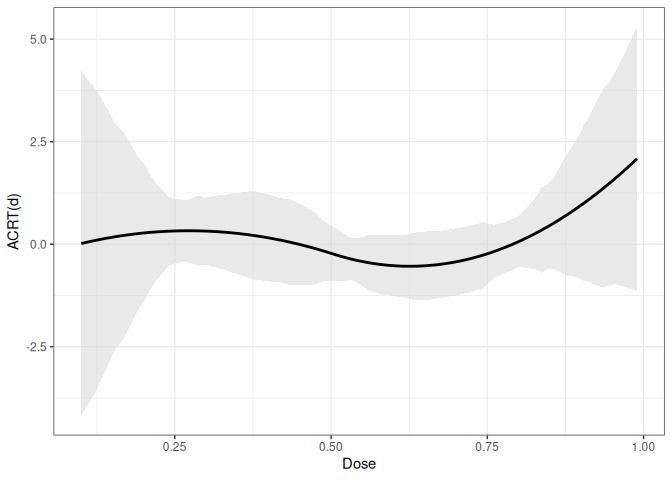
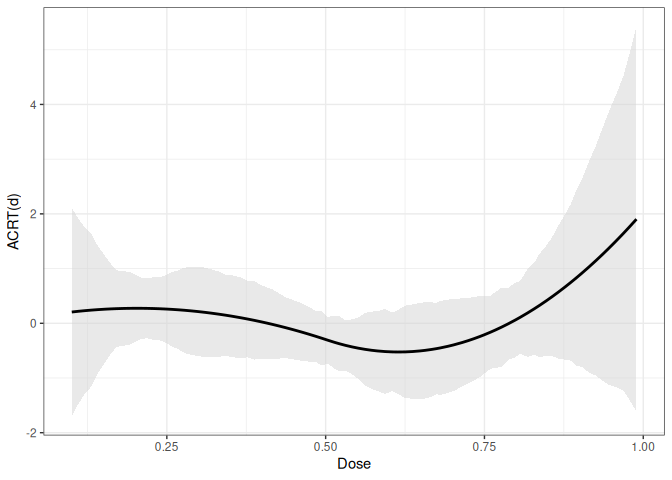
Prepare 0.1.3: require ptetools 1.0.2, fix README rendering, align CI
#18 fixed the spline basis used for ATT(d) and ACRT(d) point estimates.
The matching fix to their standard errors is in ptetools 1.0.2 (#7);
with an older ptetools the standard errors are 2-3x too large near the
ends of the dose range, so require ptetools (>= 1.0.2). Bump to 0.1.3
since 0.1.2 is on CRAN, and update NEWS and citation files.

README.qmd loaded BMisc, ptetools, and contdid from hard-coded
~/Dropbox paths, so it could only render on one machine (this is why
the build check failed on #18). It now attaches contdid and ggplot2.
README.md and its figures are re-rendered with contdid 0.1.3 and
ptetools 1.0.2; standard errors shift from the ptetools fixes, point
estimates in the main examples are unchanged.

All three workflows are now copies of BMisc's. The revdep job had never
run: it installed revdepcheck from CRAN, where it is not available; it
is now installed from GitHub.

diff --git a/README.md b/README.md
@@ -194,12 +194,12 @@ summary(cd_res)
 #> 
 #> Overall ATT:  
 #>      ATT    Std. Error     [ 95%  Conf. Int.] 
-#>  -0.0265        0.0301    -0.0855      0.0325 
+#>  -0.0265        0.0362    -0.0974      0.0445 
 #> 
 #> 
 #> Overall ACRT:  
 #>    ACRT    Std. Error     [ 95%  Conf. Int.]  
-#>  0.1341        0.0485      0.039      0.2293 *
+#>  0.1341        0.0512     0.0338      0.2345 *
 #> ---
 #> Signif. codes: `*' confidence band does not cover 0
 ggcont_did(cd_res, type = "att")
@@ -248,16 +248,16 @@ summary(cd_res_es_level)
 #> 
 #> Overall ATT:  
 #>      ATT    Std. Error     [ 95%  Conf. Int.] 
-#>  -0.0265        0.0333    -0.0918      0.0389 
+#>  -0.0265        0.0268     -0.079      0.0261 
 #> 
 #> 
 #> Dynamic Effects:
 #>  Event Time Estimate Std. Error [95% Simult.  Conf. Band] 
-#>          -2  -0.0297     0.0512       -0.1555      0.0962 
-#>          -1   0.0210     0.0382       -0.0730      0.1149 
-#>           0  -0.0069     0.0372       -0.0984      0.0845 
-#>           1   0.0009     0.0436       -0.1063      0.1080 
-#>           2  -0.0512     0.0502       -0.1746      0.0722 
+#>          -2  -0.0297     0.0471       -0.1428      0.0835 
+#>          -1   0.0210     0.0441       -0.0848      0.1267 
+#>           0  -0.0069     0.0279       -0.0740      0.0601 
+#>           1   0.0009     0.0375       -0.0892      0.0909 
+#>           2  -0.0512     0.0516       -0.1751      0.0727 
 #> ---
 #> Signif. codes: `*' confidence band does not cover 0
 ggcont_did(cd_res_es_level)
@@ -293,16 +293,16 @@ summary(cd_res_es_slope)
 #> 
 #> Overall ACRT:  
 #>     ATT    Std. Error     [ 95%  Conf. Int.]  
-#>  0.1341        0.0584     0.0197      0.2485 *
+#>  0.1341        0.0547     0.0269      0.2414 *
 #> 
 #> 
 #> Dynamic Effects:
 #>  Event Time Estimate Std. Error [95% Simult.  Conf. Band]  
-#>          -2  -0.0701     0.0808       -0.2710      0.1308  
-#>          -1  -0.2212     0.0892       -0.4431      0.0007  
-#>           0   0.1592     0.0586        0.0136      0.3048 *
-#>           1   0.0551     0.0828       -0.1509      0.2610  
-#>           2  -0.5405     0.1154       -0.8275     -0.2535 *
+#>          -2  -0.0701     0.0745       -0.2460      0.1057  
+#>          -1  -0.2212     0.0823       -0.4155     -0.0268 *
+#>           0   0.1592     0.0588        0.0205      0.2979 *
+#>           1   0.0551     0.0764       -0.1252      0.2354  
+#>           2  -0.5405     0.1233       -0.8316     -0.2494 *
 #> ---
 #> Signif. codes: `*' confidence band does not cover 0
 ggcont_did(cd_res_es_slope)
@@ -314,16 +314,16 @@ style="width:100.0%" />
 ### Case 3: Data-Driven Nonparametric Model for Treatment Effects
 
 In most applications, it is hard to know the correct functional form for
-the treatment effects as a function of the dose. In Callaway et al.
-(2025), the approach we emphasize comes from Chen et al. (2025), and the
-`contdid` package uses their [`npiv`
-package](https://github.com/JeffreyRacine/npiv) to implement this
-approach. Code-wise, the only thing to change is to set the argument
-`dose_est_method="cck"`. \[Note that we currently only support this
-option for the case with two periods and no staggered adoption. With
-more periods, you can average the pre- and post-treatment periods to
-reduce it to a two period case and then run the code below; in fact,
-this is what we did in the application in our paper.\]
+the treatment effects as a function of the dose. In Callaway,
+Goodman-Bacon, and Sant’Anna (2025), the approach we emphasize comes
+from Chen, Christensen, and Kankanala (2025), and the `contdid` package
+uses their [`npiv` package](https://github.com/JeffreyRacine/npiv) to
+implement this approach. Code-wise, the only thing to change is to set
+the argument `dose_est_method="cck"`. \[Note that we currently only
+support this option for the case with two periods and no staggered
+adoption. With more periods, you can average the pre- and post-treatment
+periods to reduce it to a two period case and then run the code below;
+in fact, this is what we did in the application in our paper.\]
 
 ``` r
 # simulate data with only two periods
@@ -338,13 +338,13 @@ df2 <- simulate_contdid_data(
 )
 df2$D[df2$G == 0] <- 0
 head(df2)
-#>   id G        D time_period           Y
-#> 1  1 2 0.890987           1  1.84272906
-#> 2  1 2 0.890987           2  5.30890209
-#> 3  2 0 0.000000           1  0.59423237
-#> 4  2 0 0.000000           2  2.81443324
-#> 5  3 0 0.000000           1  1.77438193
-#> 6  3 0 0.000000           2 -0.01032246
+#>   id G         D time_period          Y
+#> 1  1 2 0.2919041           1  4.1285463
+#> 2  1 2 0.2919041           2  4.2832651
+#> 3  2 0 0.0000000           1  4.1202277
+#> 4  2 0 0.0000000           2  5.4831484
+#> 5  3 0 0.0000000           1 -0.9426794
+#> 6  3 0 0.0000000           2  0.4819572
 
 cd_res_cck <- cont_did(
   yname = "Y",
@@ -366,12 +366,12 @@ summary(cd_res_cck)
 #> 
 #> Overall ATT:  
 #>     ATT    Std. Error     [ 95%  Conf. Int.]  
-#>  0.3399         0.037     0.2673      0.4125 *
+#>  0.3789        0.0367     0.3069      0.4508 *
 #> 
 #> 
 #> Overall ACRT:  
-#>    ACRT    Std. Error     [ 95%  Conf. Int.]  
-#>  0.6595        0.1853     0.2964      1.0226 *
+#>   ACRT    Std. Error     [ 95%  Conf. Int.]  
+#>  1.036         0.266     0.5147      1.5572 *
 #> ---
 #> Signif. codes: `*' confidence band does not cover 0
 ggcont_did(cd_res_cck) +
@@ -390,12 +390,13 @@ style="width:100.0%" />
 
 ## References
 
-<div id="refs" class="references csl-bib-body hanging-indent">
+<div id="refs" class="references csl-bib-body hanging-indent"
+entry-spacing="0">
 
 <div id="ref-callaway-goodman-santanna-2025" class="csl-entry">
 
 Callaway, Brantly, Andrew Goodman-Bacon, and Pedro H. C. Sant’Anna.
-2025. *Difference-in-Differences with a Continuous Treatment*.
+2025. “Difference-in-Differences with a Continuous Treatment.”
 
 </div>
 

diff --git a/NEWS.md b/NEWS.md
@@ -1,3 +1,18 @@
+# contdid 0.1.3
+
+* Bug fix: `ATT(d)` and `ACRT(d)` from `cont_did()` with
+  `aggregation = "dose"` were evaluated with a different B-spline basis
+  than the one the dose regression was fitted with, unless `dvals`
+  spanned exactly the range of the positive doses. With the default
+  `dvals` (the 10% to 99% quantiles of the dose), the estimated
+  dose-response curve was biased, most of all near the ends of the dose
+  range. The basis now uses the range of the positive doses as its
+  boundary knots everywhere (#16; thanks to @AsadGudzevic94).
+* Require `ptetools (>= 1.0.2)`, which computes the standard errors of
+  `ATT(d)` and `ACRT(d)` with the same basis. With older `ptetools`
+  these standard errors would be too large near the ends of the dose
+  range.
+
 # contdid 0.1.2
 
 * Bug fix: `cont_did()` with `target_parameter = "level"` and
